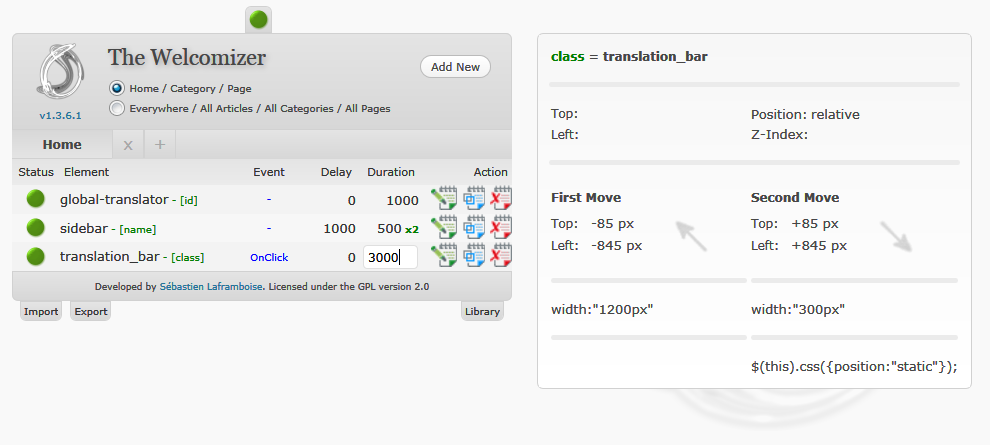
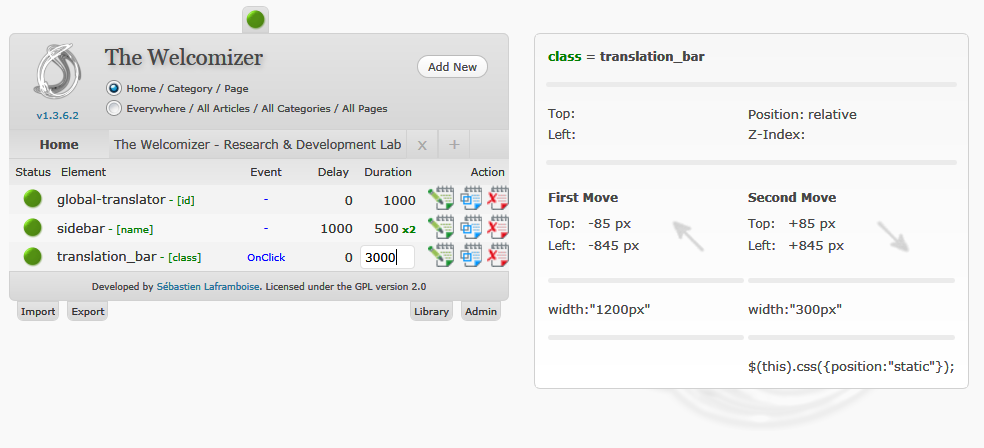
v1.3.6.2
git-svn-id: https://plugins.svn.wordpress.org/the-welcomizer/trunk@397298 b8457f37-d9ea-0310-8a92-e5e31aec5664

diff --git a/includes/twiz-style.css b/includes/twiz-style.css
@@ -508,7 +508,8 @@ a.twiz-more-options:hover {
 }
 #twiz_import,
 #twiz_export,
-#twiz_library , 
+#twiz_library, 
+#twiz_admin,
 #twiz_library_upload {
     border-radius: 0px 0px 6px 6px;
     -moz-border-radius-bottomright: 6px;
@@ -528,6 +529,7 @@ a.twiz-more-options:hover {
 #twiz_import:hover,
 #twiz_export:hover,
 #twiz_library:hover, 
+#twiz_admin:hover, 
 #twiz_library_upload:hover {
     color: #000000;
     background: #E4E4E4;
@@ -542,7 +544,8 @@ a.twiz-more-options:hover {
     float: left;
     margin-left: 8px;
 }
-#twiz_library {
+#twiz_library,
+#twiz_admin {
     float: right;
     margin-right: 8px;
 }

diff --git a/includes/twiz.class.php b/includes/twiz.class.php
@@ -331,7 +331,7 @@ class Twiz{
         $this->pluginUrl  = $pluginUrl;
         $this->pluginDir  = $pluginDir;
         $this->pluginName = __('The Welcomizer', 'the-welcomizer');
-        $this->version    = 'v1.3.6.1';
+        $this->version    = 'v1.3.6.2';
         $this->dbVersion  = '2.1';
         $this->table      = $wpdb->prefix .'the_welcomizer';
         $this->logoUrl    = '/images/twiz-logo.png';
@@ -396,8 +396,9 @@ class Twiz{
       $export = '<div id="twiz_export">'.__('Export', 'the-welcomizer').'</div>';
       $library_upload = '<div id="twiz_library_upload">'.__('Upload', 'the-welcomizer').'</div>';
       $library = '<div id="twiz_library">'.__('Library', 'the-welcomizer').'</div>';
+      $admin = '<div id="twiz_admin">'.__('Admin', 'the-welcomizer').'</div>';
       
-      $html = '<div id="twiz_footer_menu">'.$library_upload.$import.$export.$library.'</div>';
+      $html = '<div id="twiz_footer_menu">'.$library_upload.$import.$export.$admin.$library.'</div>';
       
       return $html;
       
@@ -1153,6 +1154,9 @@ class Twiz{
         $("#qq_upload_list li").remove();
         twizPostLibrary();
     });     
+    $("#twiz_admin").click(function(){
+     alert("'.__('What are the features you want within the administration panel?', 'the-welcomizer').'");
+    });     
   }  
   function twizPostLibrary(){
       $("#twiz_container").slideToggle("fast"); 
@@ -1222,7 +1226,6 @@ class Twiz{
         $("#twiz_delete_menu").fadeIn("fast");
         $("#twiz_import").fadeIn("fast");
         $("#twiz_export").fadeIn("fast");
-        $("#twiz_library").fadeIn("fast");
   });
  //]]>
 </script>';
@@ -1952,8 +1955,6 @@ $(document).twizReplay();
             
             if(!$data = $this->getRow($id)){return false;}
             
-            $hideimport = '$("#twiz_import").fadeOut("fast");';
-            
             if( $action == self::ACTION_COPY ){
             
                 $hideimport .= '$("#twiz_export").fadeOut("fast");';
@@ -1981,7 +1982,6 @@ $(document).twizReplay();
         $("#twiz_delete_menu").fadeOut("fast");
         $("#twiz_add_sections").fadeOut("fast"); 
         $("#twiz_right_panel").fadeOut("fast");
-        $("#twiz_library").fadeOut("fast");
         $("#qq_upload_list li").remove(); 
         '.$hideimport .'
   });

diff --git a/twiz-index.php b/twiz-index.php
@@ -1,7 +1,7 @@
 <?php
 /*
 Plugin Name: The Welcomizer
-Version: 1.3.6.1
+Version: 1.3.6.2
 Plugin URI: http://www.sebastien-laframboise.com/wordpress/plugins-wordpress/the-welcomizer
 Description: This plugin allows you to animate your blog using jQuery effects. (100% AJAX) + .js/.css Includer.
 Author: S&#233;bastien Laframboise
